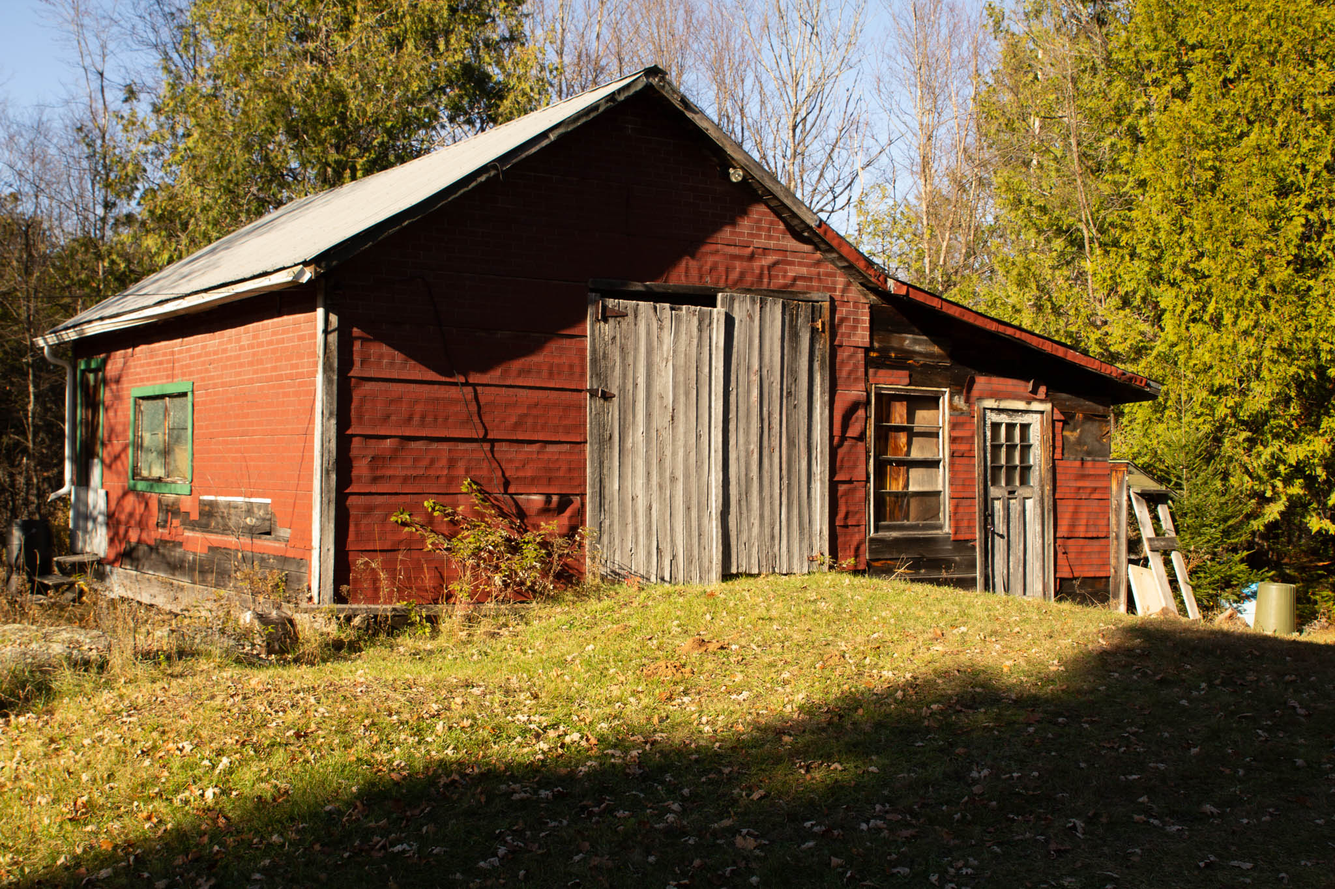
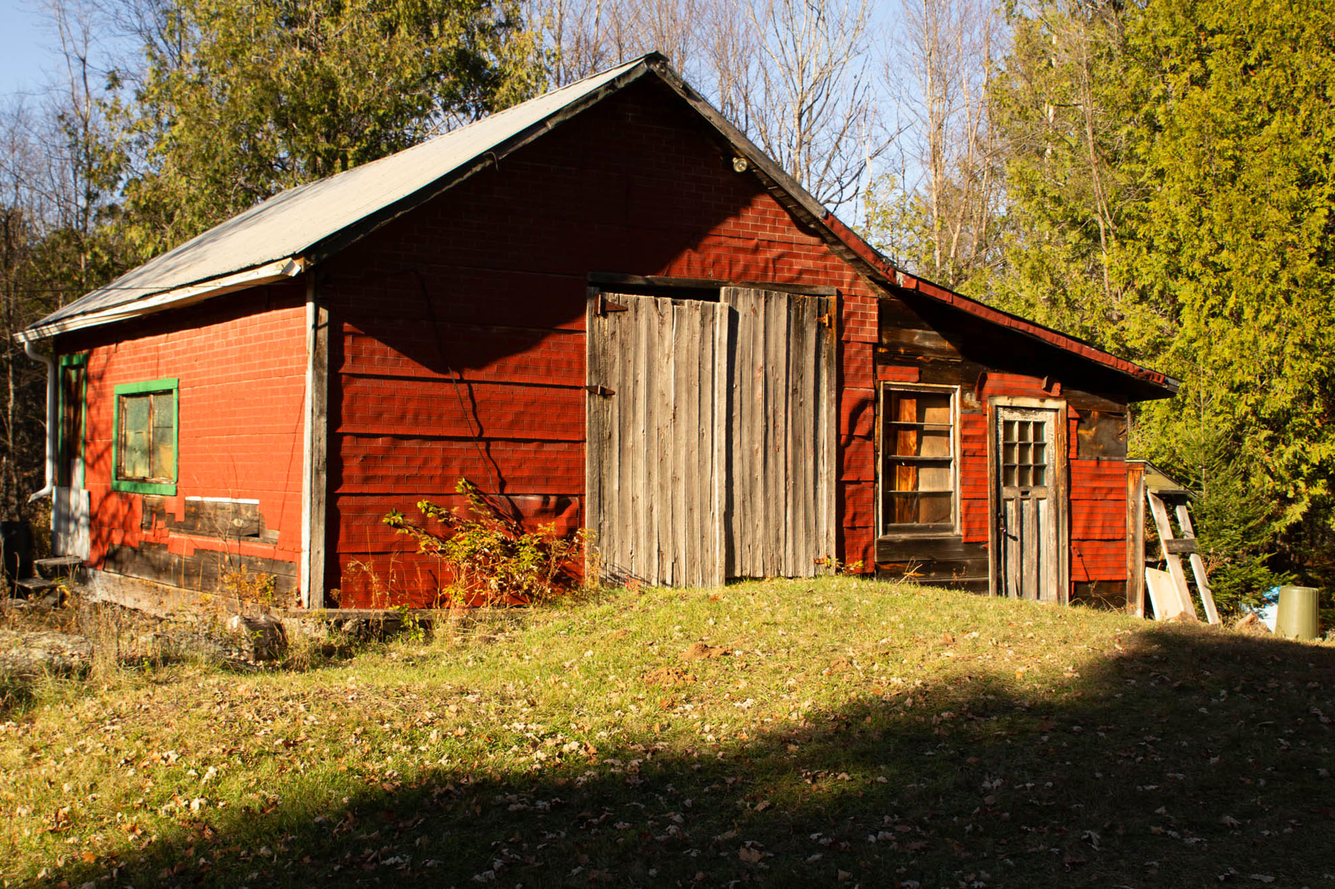
fixes images and adds to portfolio

diff --git a/portfolio.html b/portfolio.html
@@ -26,6 +26,13 @@
         <li><a href="contact.html" id="navtab">Contact</a></li>
         <li><a href="services.html" id="navtab">Services</a></li>
     </ul>
+    <div class="Marty+Quinn">
+        <img src="images/IMG_9448QWMG.jpg" alt="Ultimate Frisbee" width="600px" height="500px">
+    </div>
+    <div class="Cottage Shed">
+        <img src="images/Cottageshed.jpg" alt="Shed" width="600px" height="500px">
+    </div>
+
 </body>
 <footer>
     <!-- adds main logo -->
